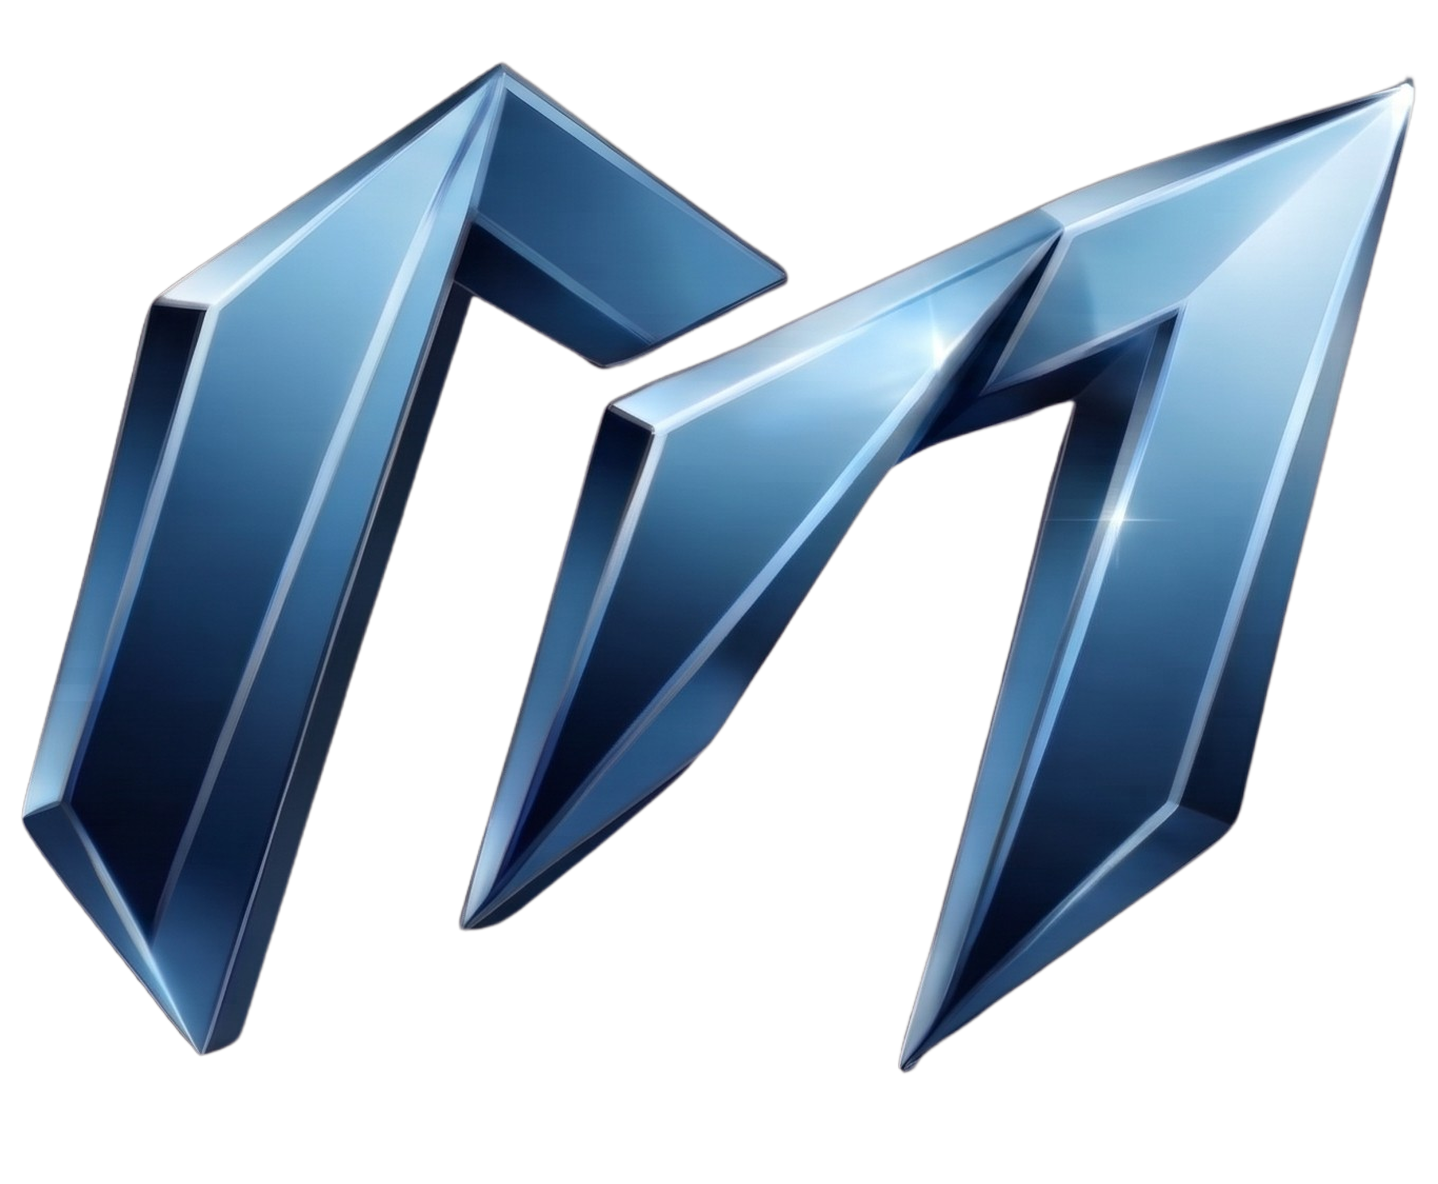
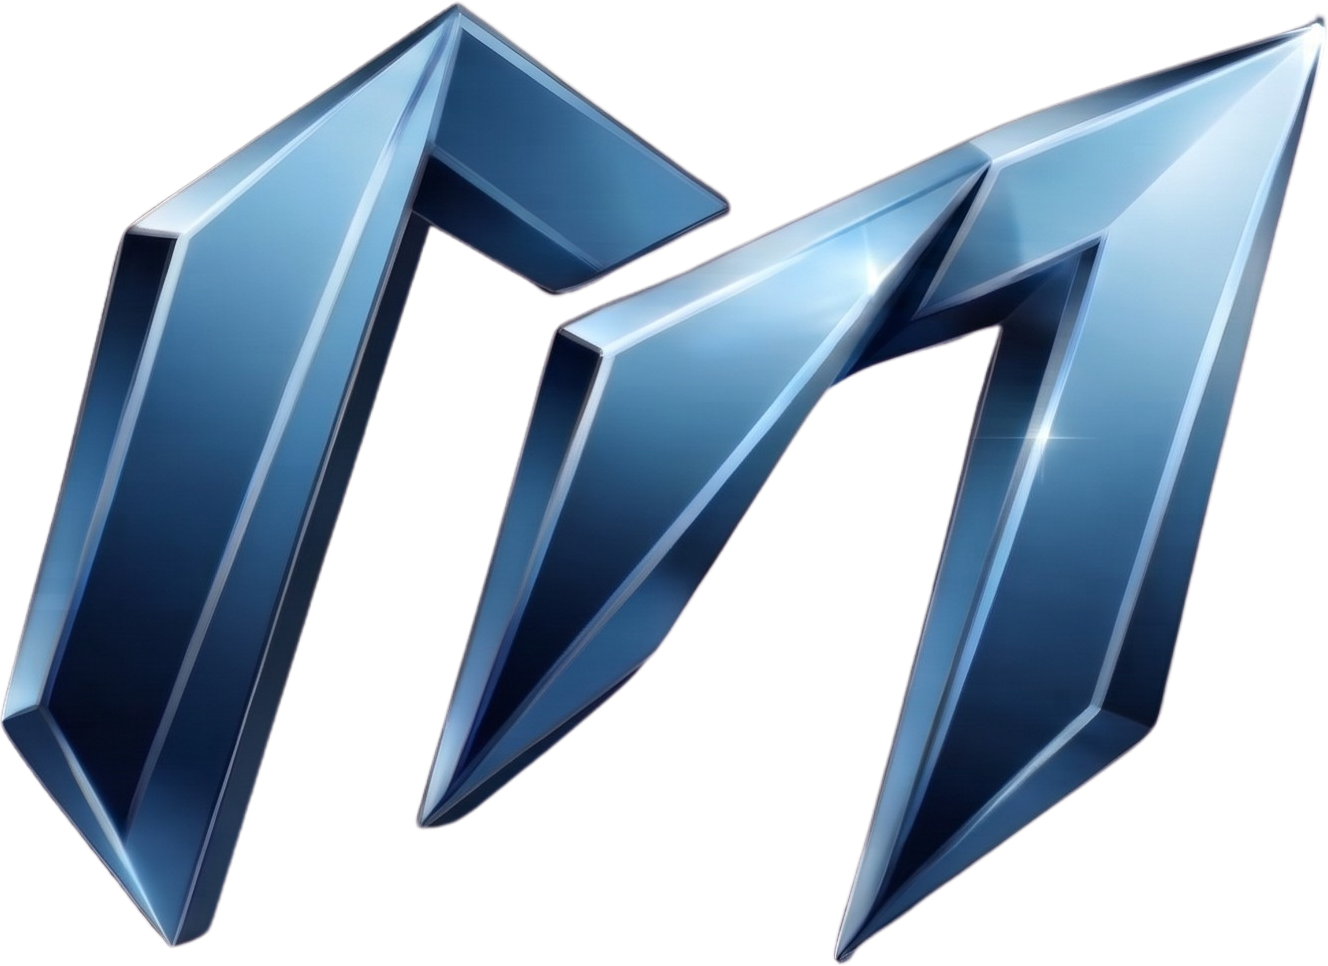
Make M emblem smaller and top-aligned with MAPSCART wordmark

Changed region(s): [[0.0, 0.0, 1.0, 1.0], [0.8336, 0.1863, 0.8645, 0.2174]]

diff --git a/store/templates/store/includes/header_css.html b/store/templates/store/includes/header_css.html
@@ -52,22 +52,29 @@ header#header.scrolled {
 }
 .logo {
     display: inline-flex;
-    align-items: center;
+    align-items: flex-start;
     gap: 6px;
     flex-shrink: 0 !important;
     text-decoration: none;
 }
-.logo img,
-.logo-mark,
+.logo-mark {
+    display: block;
+    height: 35px;
+    width: auto;
+    margin-top: 2.5px;
+    object-fit: contain;
+    flex-shrink: 0 !important;
+    transition: transform .25s ease;
+}
 .logo-text {
     display: block;
     height: 50px;
     width: auto;
     max-width: 220px;
     object-fit: contain;
+    flex-shrink: 0 !important;
     transition: transform .25s ease;
 }
-.logo:hover img,
 .logo:hover .logo-mark,
 .logo:hover .logo-text {
     transform: scale(1.03);
@@ -941,16 +948,22 @@ header#header.scrolled {
     }
     .drawer-brand {
         display: flex !important;
-        align-items: center !important;
+        align-items: flex-start !important;
         gap: 6px !important;
     }
-    .drawer-logo,
-    .drawer-logo-mark,
-    .drawer-logo-text {
-        height: 36px !important;
+    .drawer-logo-mark {
+        height: 26px !important;
         width: auto !important;
-        max-width: 140px !important;
+        margin-top: 2px !important;
         object-fit: contain !important;
+        flex-shrink: 0 !important;
+    }
+    .drawer-logo-text {
+        height: 38px !important;
+        width: auto !important;
+        max-width: 145px !important;
+        object-fit: contain !important;
+        flex-shrink: 0 !important;
     }
     .drawer-close-btn {
         width: 36px !important;
@@ -1426,11 +1439,13 @@ header#header.scrolled {
         gap: 8px !important;
         padding: 8px 12px !important;
     }
-    .logo img,
-    .logo-mark,
+    .logo-mark {
+        height: 28px !important;
+        margin-top: 2px !important;
+    }
     .logo-text {
-        height: 44px !important;
-        max-width: 195px !important;
+        height: 42px !important;
+        max-width: 185px !important;
     }
     .nav {
         gap: 1px !important;
@@ -1483,13 +1498,19 @@ header#header.scrolled {
         justify-content: flex-start !important;
         margin: 0 !important;
         gap: 4px !important;
+        align-items: flex-start !important;
     }
-    .logo img,
-    .logo-mark,
-    .logo-text {
-        height: 36px !important;
+    .logo-mark {
+        height: 24px !important;
+        margin-top: 2px !important;
         width: auto !important;
-        max-width: 100% !important;
+        flex-shrink: 0 !important;
+    }
+    .logo-text {
+        height: 35px !important;
+        width: auto !important;
+        max-width: 135px !important;
+        flex-shrink: 0 !important;
     }
     .actions {
         order: 2 !important;
@@ -1588,10 +1609,13 @@ header#header.scrolled {
     }
 }
 @media (max-width: 380px) {
-    .logo img,
-    .logo-mark,
+    .logo-mark {
+        height: 20px !important;
+        margin-top: 1.5px !important;
+    }
     .logo-text {
         height: 30px !important;
+        max-width: 115px !important;
     }
     .icon-btn {
         width: 33px !important;

diff --git a/store/templates/store/about.html b/store/templates/store/about.html
@@ -127,8 +127,10 @@
         .header-main { display: flex; align-items: center; gap: 28px; padding: 14px 0; }
         .logo { display: inline-flex; align-items: center; flex-shrink: 0; }
         .logo img { display: block; height: 48px; width: auto; max-width: 100%; object-fit: contain; }
-        .brand-logo { display: inline-flex; align-items: center; gap: 8px; margin-bottom: 18px; }
+        .brand-logo { display: inline-flex; align-items: flex-start; gap: 8px; margin-bottom: 18px; }
         .brand-logo img { display: block; height: 50px; width: auto; max-width: 100%; object-fit: contain; }
+        .brand-logo-mark { height: 34px !important; margin-top: 2.5px !important; }
+        .brand-logo-text { height: 50px !important; }
         .nav { display: flex; gap: 6px; }
         .nav a { padding: 8px 14px; font-size: 14px; font-weight: 500; color: var(--ink); border-radius: 999px; transition: background .2s, color .2s; }
         .nav a:hover, .nav a.active { background: var(--soft); color: var(--brand); font-weight: 600; }

diff --git a/store/templates/store/cart.html b/store/templates/store/cart.html
@@ -113,8 +113,10 @@
         .header-main { display: flex; align-items: center; gap: 28px; padding: 14px 0; }
         .logo { display: inline-flex; align-items: center; flex-shrink: 0; }
         .logo img { display: block; height: 48px; width: auto; max-width: 100%; object-fit: contain; }
-        .brand-logo { display: inline-flex; align-items: center; gap: 8px; margin-bottom: 18px; }
+        .brand-logo { display: inline-flex; align-items: flex-start; gap: 8px; margin-bottom: 18px; }
         .brand-logo img { display: block; height: 50px; width: auto; max-width: 100%; object-fit: contain; }
+        .brand-logo-mark { height: 34px !important; margin-top: 2.5px !important; }
+        .brand-logo-text { height: 50px !important; }
         .nav { display: flex; gap: 6px; }
         .nav a { padding: 8px 14px; font-size: 14px; font-weight: 500; color: var(--ink); border-radius: 999px; transition: background .2s, color .2s; }
         .nav a:hover, .nav a.active { background: var(--soft); color: var(--brand); font-weight: 600; }

diff --git a/store/templates/store/checkout.html b/store/templates/store/checkout.html
@@ -103,8 +103,10 @@
         .header-main { display: flex; align-items: center; gap: 28px; padding: 14px 0; }
         .logo { display: inline-flex; align-items: center; flex-shrink: 0; }
         .logo img { display: block; height: 48px; width: auto; max-width: 100%; object-fit: contain; }
-        .brand-logo { display: inline-flex; align-items: center; gap: 8px; margin-bottom: 18px; }
+        .brand-logo { display: inline-flex; align-items: flex-start; gap: 8px; margin-bottom: 18px; }
         .brand-logo img { display: block; height: 50px; width: auto; max-width: 100%; object-fit: contain; }
+        .brand-logo-mark { height: 34px !important; margin-top: 2.5px !important; }
+        .brand-logo-text { height: 50px !important; }
         .nav { display: flex; gap: 6px; }
         .nav a { padding: 8px 14px; font-size: 14px; font-weight: 500; color: var(--ink); border-radius: 999px; transition: background .2s, color .2s; }
         .nav a:hover, .nav a.active { background: var(--soft); color: var(--brand); font-weight: 600; }

diff --git a/store/templates/store/collection_detail.html b/store/templates/store/collection_detail.html
@@ -519,8 +519,10 @@
         .header-main { display: flex; align-items: center; gap: 28px; padding: 14px 0; }
         .logo { display: inline-flex; align-items: center; flex-shrink: 0; }
         .logo img { display: block; height: 48px; width: auto; max-width: 100%; object-fit: contain; }
-        .brand-logo { display: inline-flex; align-items: center; gap: 8px; margin-bottom: 18px; }
+        .brand-logo { display: inline-flex; align-items: flex-start; gap: 8px; margin-bottom: 18px; }
         .brand-logo img { display: block; height: 50px; width: auto; max-width: 100%; object-fit: contain; }
+        .brand-logo-mark { height: 34px !important; margin-top: 2.5px !important; }
+        .brand-logo-text { height: 50px !important; }
         .nav { display: flex; gap: 6px; }
         .nav a { padding: 8px 14px; font-size: 14px; font-weight: 500; color: var(--ink); border-radius: 999px; transition: background .2s, color .2s; }
         .nav a:hover, .nav a.active { background: var(--soft); color: var(--brand); font-weight: 600; }

diff --git a/store/templates/store/contact.html b/store/templates/store/contact.html
@@ -133,8 +133,10 @@
         .header-main { display: flex; align-items: center; gap: 28px; padding: 14px 0; }
         .logo { display: inline-flex; align-items: center; flex-shrink: 0; }
         .logo img { display: block; height: 48px; width: auto; max-width: 100%; object-fit: contain; }
-        .brand-logo { display: inline-flex; align-items: center; gap: 8px; margin-bottom: 18px; }
+        .brand-logo { display: inline-flex; align-items: flex-start; gap: 8px; margin-bottom: 18px; }
         .brand-logo img { display: block; height: 50px; width: auto; max-width: 100%; object-fit: contain; }
+        .brand-logo-mark { height: 34px !important; margin-top: 2.5px !important; }
+        .brand-logo-text { height: 50px !important; }
         .nav { display: flex; gap: 6px; }
         .nav a { padding: 8px 14px; font-size: 14px; font-weight: 500; color: var(--ink); border-radius: 999px; transition: background .2s, color .2s; }
         .nav a:hover, .nav a.active { background: var(--soft); color: var(--brand); font-weight: 600; }

diff --git a/store/templates/store/index.html b/store/templates/store/index.html
@@ -119,8 +119,10 @@
         .header-main { display: flex; align-items: center; gap: 28px; padding: 14px 0; }
         .logo { display: inline-flex; align-items: center; flex-shrink: 0; }
         .logo img { display: block; height: 48px; width: auto; max-width: 100%; object-fit: contain; }
-        .brand-logo { display: inline-flex; align-items: center; gap: 8px; margin-bottom: 18px; }
+        .brand-logo { display: inline-flex; align-items: flex-start; gap: 8px; margin-bottom: 18px; }
         .brand-logo img { display: block; height: 50px; width: auto; max-width: 100%; object-fit: contain; }
+        .brand-logo-mark { height: 34px !important; margin-top: 2.5px !important; }
+        .brand-logo-text { height: 50px !important; }
         .nav { display: flex; gap: 6px; }
         .nav a { padding: 8px 14px; font-size: 14px; font-weight: 500; color: var(--ink); border-radius: 999px; transition: background .2s, color .2s; }
         .nav a:hover, .nav a.active { background: var(--soft); color: var(--brand); font-weight: 600; }

diff --git a/store/templates/store/login.html b/store/templates/store/login.html
@@ -136,8 +136,10 @@
         .header-main { display: flex; align-items: center; gap: 28px; padding: 14px 0; }
         .logo { display: inline-flex; align-items: center; flex-shrink: 0; }
         .logo img { display: block; height: 48px; width: auto; max-width: 100%; object-fit: contain; }
-        .brand-logo { display: inline-flex; align-items: center; gap: 8px; margin-bottom: 18px; }
+        .brand-logo { display: inline-flex; align-items: flex-start; gap: 8px; margin-bottom: 18px; }
         .brand-logo img { display: block; height: 50px; width: auto; max-width: 100%; object-fit: contain; }
+        .brand-logo-mark { height: 34px !important; margin-top: 2.5px !important; }
+        .brand-logo-text { height: 50px !important; }
         .nav { display: flex; gap: 6px; }
         .nav a { padding: 8px 14px; font-size: 14px; font-weight: 500; color: var(--ink); border-radius: 999px; transition: background .2s, color .2s; }
         .nav a:hover, .nav a.active { background: var(--soft); color: var(--brand); font-weight: 600; }

diff --git a/store/templates/store/product_detail.html b/store/templates/store/product_detail.html
@@ -479,8 +479,10 @@
         .header-main { display: flex; align-items: center; gap: 28px; padding: 14px 0; }
         .logo { display: inline-flex; align-items: center; flex-shrink: 0; }
         .logo img { display: block; height: 48px; width: auto; max-width: 100%; object-fit: contain; }
-        .brand-logo { display: inline-flex; align-items: center; gap: 8px; margin-bottom: 18px; }
+        .brand-logo { display: inline-flex; align-items: flex-start; gap: 8px; margin-bottom: 18px; }
         .brand-logo img { display: block; height: 50px; width: auto; max-width: 100%; object-fit: contain; }
+        .brand-logo-mark { height: 34px !important; margin-top: 2.5px !important; }
+        .brand-logo-text { height: 50px !important; }
         .nav { display: flex; gap: 6px; }
         .nav a { padding: 8px 14px; font-size: 14px; font-weight: 500; color: var(--ink); border-radius: 999px; transition: background .2s, color .2s; }
         .nav a:hover, .nav a.active { background: var(--soft); color: var(--brand); font-weight: 600; }

diff --git a/store/templates/store/register.html b/store/templates/store/register.html
@@ -138,8 +138,10 @@
         .header-main { display: flex; align-items: center; gap: 28px; padding: 14px 0; }
         .logo { display: inline-flex; align-items: center; flex-shrink: 0; }
         .logo img { display: block; height: 48px; width: auto; max-width: 100%; object-fit: contain; }
-        .brand-logo { display: inline-flex; align-items: center; gap: 8px; margin-bottom: 18px; }
+        .brand-logo { display: inline-flex; align-items: flex-start; gap: 8px; margin-bottom: 18px; }
         .brand-logo img { display: block; height: 50px; width: auto; max-width: 100%; object-fit: contain; }
+        .brand-logo-mark { height: 34px !important; margin-top: 2.5px !important; }
+        .brand-logo-text { height: 50px !important; }
         .nav { display: flex; gap: 6px; }
         .nav a { padding: 8px 14px; font-size: 14px; font-weight: 500; color: var(--ink); border-radius: 999px; transition: background .2s, color .2s; }
         .nav a:hover, .nav a.active { background: var(--soft); color: var(--brand); font-weight: 600; }

diff --git a/store/templates/store/search.html b/store/templates/store/search.html
@@ -410,8 +410,10 @@
         .header-main { display: flex; align-items: center; gap: 28px; padding: 14px 0; }
         .logo { display: inline-flex; align-items: center; flex-shrink: 0; }
         .logo img { display: block; height: 48px; width: auto; max-width: 100%; object-fit: contain; }
-        .brand-logo { display: inline-flex; align-items: center; gap: 8px; margin-bottom: 18px; }
+        .brand-logo { display: inline-flex; align-items: flex-start; gap: 8px; margin-bottom: 18px; }
         .brand-logo img { display: block; height: 50px; width: auto; max-width: 100%; object-fit: contain; }
+        .brand-logo-mark { height: 34px !important; margin-top: 2.5px !important; }
+        .brand-logo-text { height: 50px !important; }
         .nav { display: flex; gap: 6px; }
         .nav a { padding: 8px 14px; font-size: 14px; font-weight: 500; color: var(--ink); border-radius: 999px; transition: background .2s, color .2s; }
         .nav a:hover, .nav a.active { background: var(--soft); color: var(--brand); font-weight: 600; }

diff --git a/store/templates/store/wishlist.html b/store/templates/store/wishlist.html
@@ -113,8 +113,10 @@
         .header-main { display: flex; align-items: center; gap: 28px; padding: 14px 0; }
         .logo { display: inline-flex; align-items: center; flex-shrink: 0; }
         .logo img { display: block; height: 48px; width: auto; max-width: 100%; object-fit: contain; }
-        .brand-logo { display: inline-flex; align-items: center; gap: 8px; margin-bottom: 18px; }
+        .brand-logo { display: inline-flex; align-items: flex-start; gap: 8px; margin-bottom: 18px; }
         .brand-logo img { display: block; height: 50px; width: auto; max-width: 100%; object-fit: contain; }
+        .brand-logo-mark { height: 34px !important; margin-top: 2.5px !important; }
+        .brand-logo-text { height: 50px !important; }
         .nav { display: flex; gap: 6px; }
         .nav a { padding: 8px 14px; font-size: 14px; font-weight: 500; color: var(--ink); border-radius: 999px; transition: background .2s, color .2s; }
         .nav a:hover, .nav a.active { background: var(--soft); color: var(--brand); font-weight: 600; }
